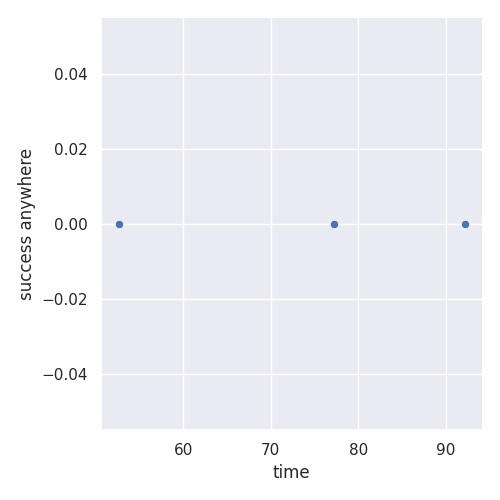
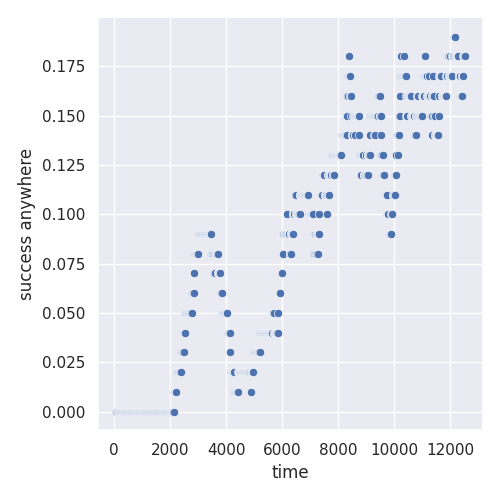
out3

diff --git a/opentamp/policy_hooks/parse_np.py b/opentamp/policy_hooks/parse_np.py
@@ -4,8 +4,8 @@ import seaborn as sns
 from plotting import plot
 import matplotlib.pyplot as plt
 
-data = np.load('../experiment_logs/namo_objs1_1/olivia_train_5/moretest_hl_test_log.npy')
-i =5
+data = np.load('../experiment_logs/namo_objs1_1/olivia_train_6/moretest_hl_test_log.npy')
+i = 6
 data_dict = {}
 data_list = []
 for pts in data:
